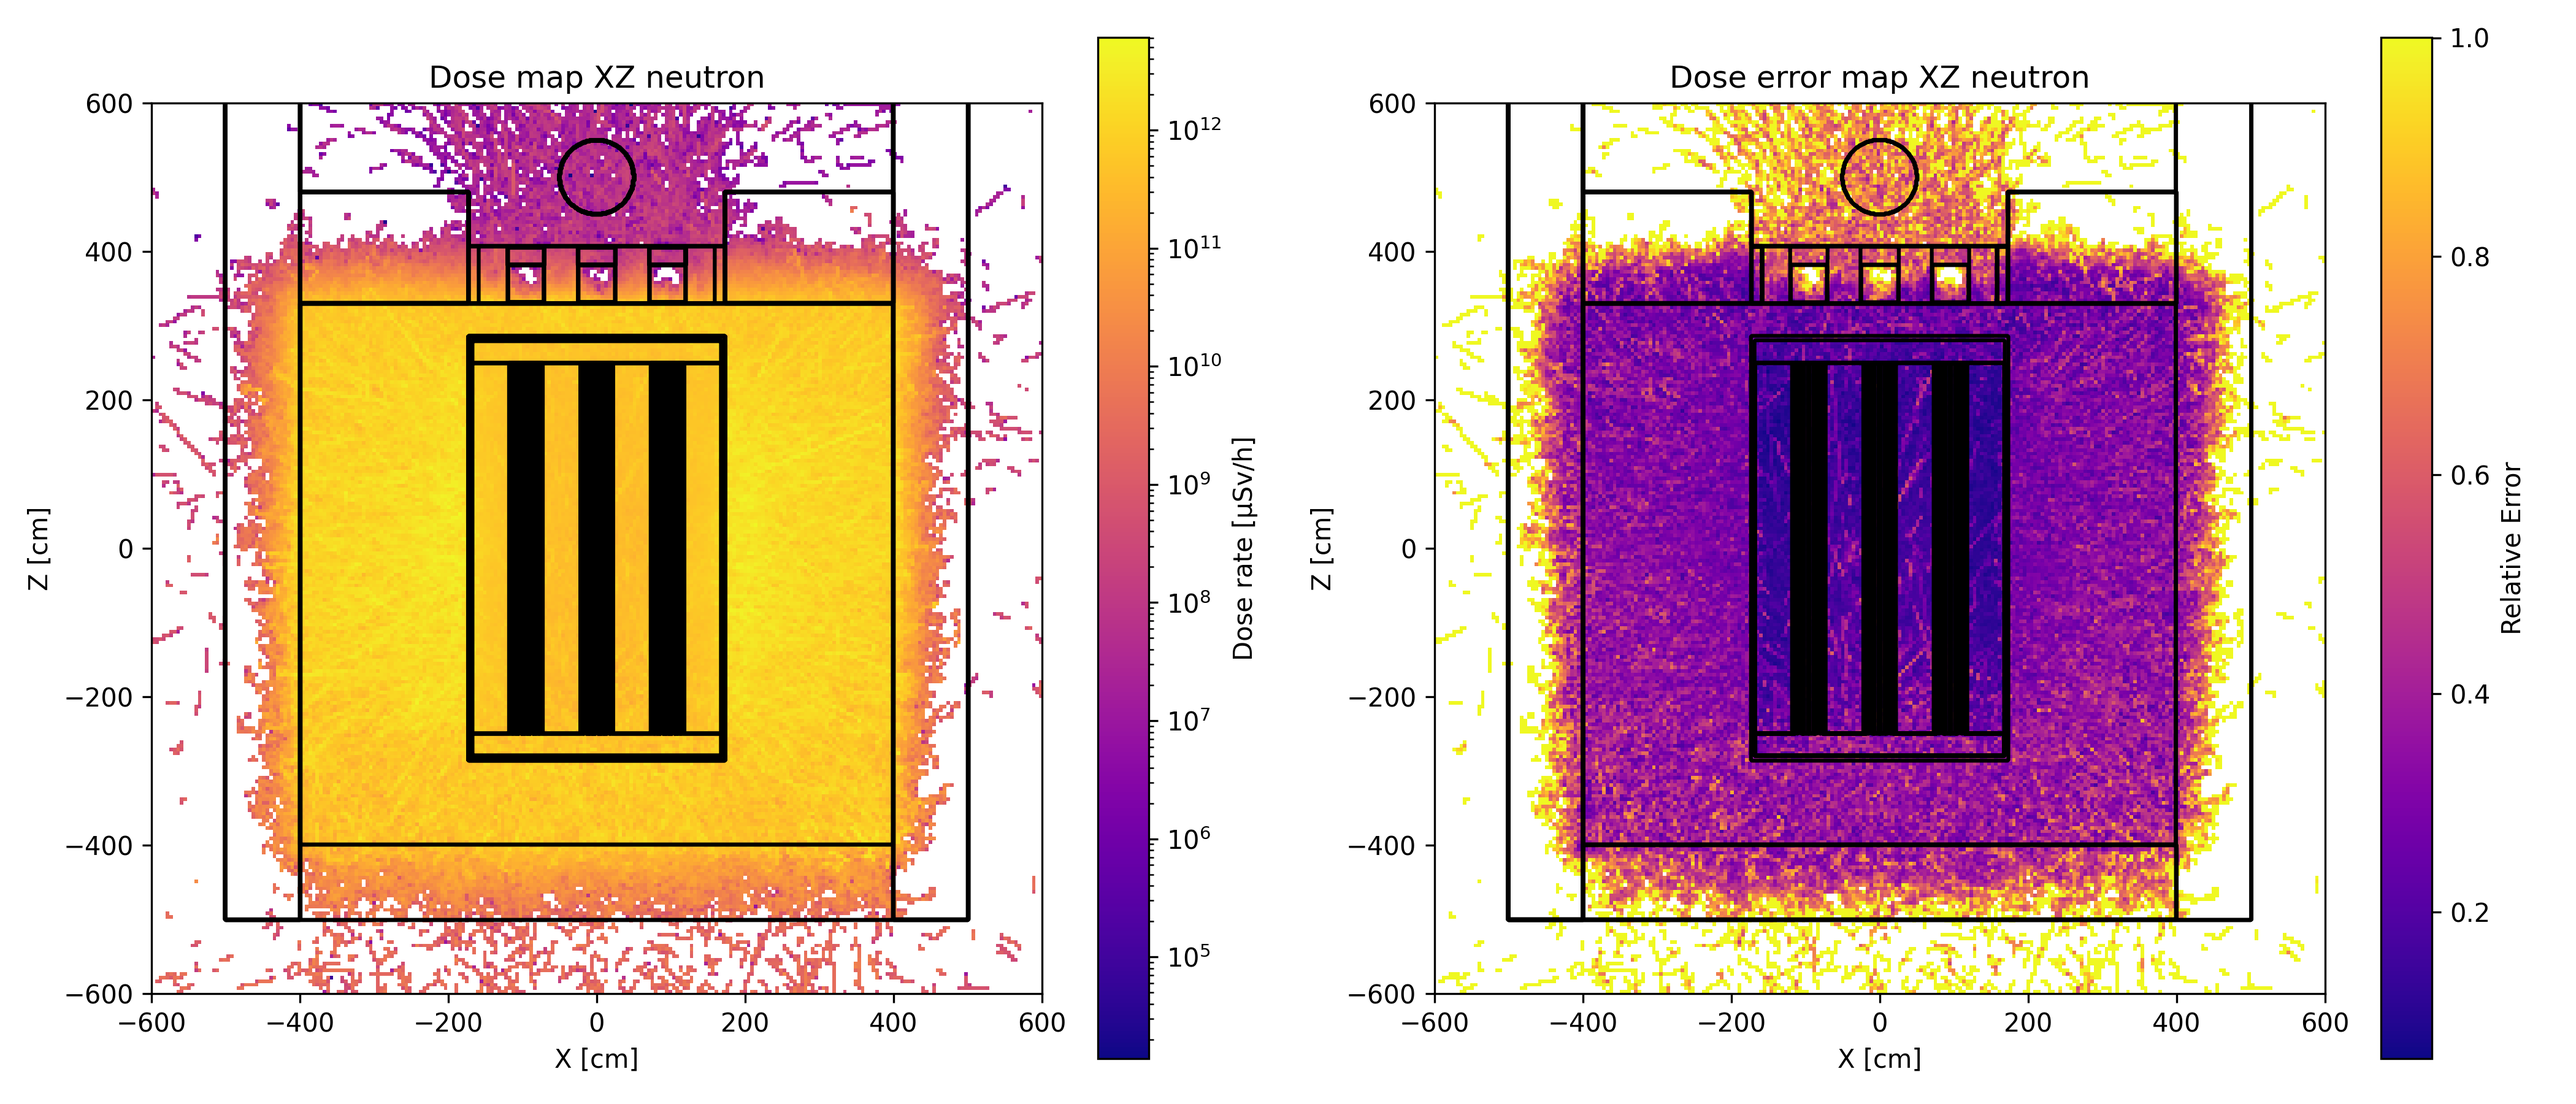
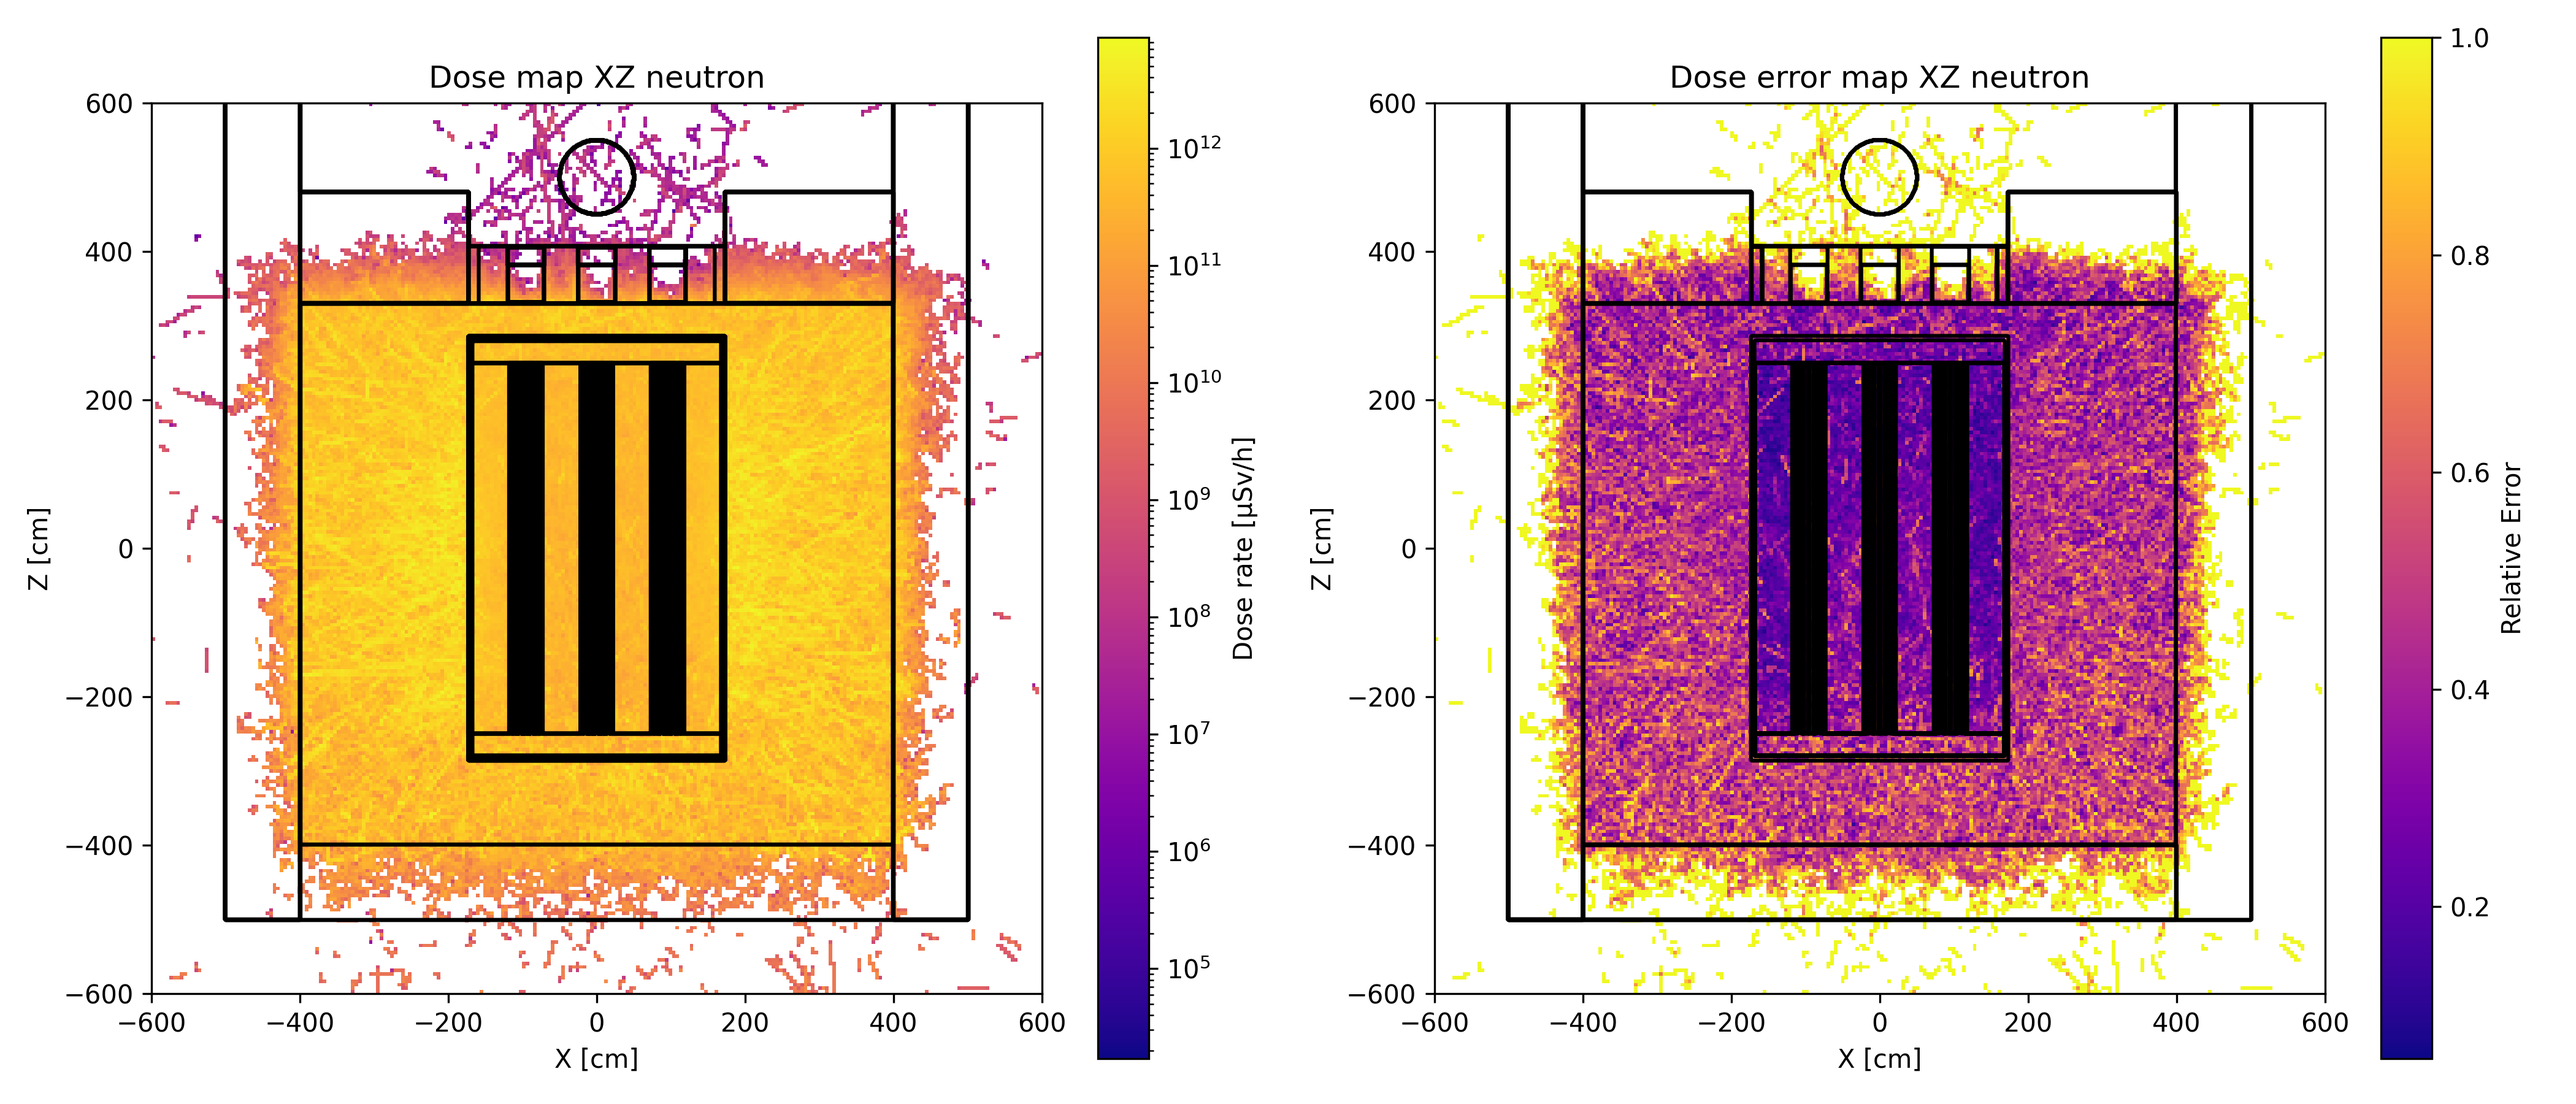
feat:add_itter_var

diff --git a/src/studies/reactor_study/class_model/secondary_source/top_shielding/02_65_25cm/03_itteration_numbe_analysis/itter_var.py b/src/studies/reactor_study/class_model/secondary_source/top_shielding/02_65_25cm/03_itteration_numbe_analysis/itter_var.py
@@ -1,0 +1,142 @@
+import openmc
+import os 
+import json
+import matplotlib.pyplot as plt
+from matplotlib.colors import LogNorm
+from pathlib import Path
+import sys 
+from PIL import Image
+import numpy as np
+
+
+
+CWD = Path(__file__).parent.resolve() 
+project_root = Path(__file__).resolve().parents[8]  
+sys.path.append(str(project_root))
+
+from parameters.parameters_paths import PATH_TO_CROSS_SECTIONS, IMAGE_PATH
+from parameters.parameters_materials import *
+from src.utils.pre_processing.pre_processing import *
+from src.utils.post_preocessing.post_processing import *
+from src.models.model_complete_reactor_class import *
+from src.utils.weight_window.weight_window import *
+
+os.environ["OPENMC_CROSS_SECTIONS"] = PATH_TO_CROSS_SECTIONS
+
+material_dict["FUEL_UO2_MATERIAL"].remove_element("U")
+
+my_reactor = Reactor_model(materials=material_dict, 
+                           total_height_active_part=500.0, 
+                           light_water_pool=False, 
+                           slab_thickness=100,
+                           concrete_wall_thickness=100,
+                           calculation_sphere_coordinates=(0, 0, 500), 
+                           calculation_sphere_radius=50.0,
+                           thickness_lead_top_shielding=20.0, 
+                           thickness_b4c_top_shielding=65.0)
+
+model = my_reactor.model
+if __name__ == "__main__":
+    model.export_to_xml()
+    plot_geometry(materials = openmc.Materials(list(my_reactor.material.values())), 
+                plane="xy", origin=(0,0,0), saving_figure=False, dpi=500, height=1700, width=1700,
+                pixels=(700, 700))
+
+    plot_geometry(materials = openmc.Materials(list(my_reactor.material.values())), 
+                plane="xz", origin=(0,0,0), saving_figure=False, dpi=500, height=1700, width=1700,
+                pixels=(700, 700))
+
+    plot_geometry(materials = openmc.Materials(list(my_reactor.material.values())), 
+                plane="xz", origin=(0,0,0), saving_figure=False, dpi=500, height=1700, width=1700,
+                pixels=(700, 700), color_by="cell")
+
+
+    results_path = "simulation_results.json"
+    with open(results_path, "r") as f:
+        results = json.load(f)
+    neutron_emission_rate = results["neutrons_emitted_per_second"]["value"]
+
+    tallys = openmc.Tallies()
+
+    itterations_number = []
+    fom_neutron_list = []
+    fom_photon_list = []
+
+
+    for itteration in range(1, 8):
+
+        # run the simulation
+
+        settings = openmc.Settings()
+        batches_number= 50
+        settings.batches = batches_number
+        settings.particles = 50000
+        settings.source = openmc.FileSource('surface_source.h5')
+        settings.photon_transport = True
+        settings.run_mode = "fixed source"
+        settings.source.particles = ["neutron", "photon"]
+
+        ww = openmc.hdf5_to_wws(f"weight_windows{itteration}.h5")
+
+        settings.weight_windows = apply_spherical_correction_to_weight_windows(ww, particule_type='photon', sphere_center=(0.0, 0.0, 500.0), sphere_radius=50.0)
+        size_ww = get_ww_size(ww)
+
+        model.settings = settings
+        model.export_to_xml()
+
+        tallys = openmc.Tallies()
+
+        tally_sphere_dose_photon = create_dose_rate_tally(
+            name="flux_tally_sphere_dose_photon",
+            particle_type="photon",
+            cell=my_reactor.calc_sphere_cell
+        )
+        tallys.append(tally_sphere_dose_photon)
+
+        tally_sphere_dose_neutron = create_dose_rate_tally(
+            name="flux_tally_sphere_dose_neutron",
+            particle_type="neutron",
+            cell=my_reactor.calc_sphere_cell
+        )
+        tallys.append(tally_sphere_dose_neutron)
+
+        tallys.export_to_xml()
+
+        remove_previous_results(batches_number=batches_number)
+
+        openmc.run()
+
+        statepoint = openmc.StatePoint(f"statepoint.{batches_number}.h5")
+
+        dose_rate_photon, dose_rate_error_photon, fom_photon = compute_dose_rate_tally(
+            statepoint=statepoint,
+            tally_name="flux_tally_sphere_dose_photon",
+            particule_per_second=neutron_emission_rate,
+            volume=Volume_cell(cell=my_reactor.calc_sphere_cell).get_volume(),
+            unit="mSv/h"
+        )
+
+        dose_rate_neutron, dose_rate_error_neutron, fom_neutron = compute_dose_rate_tally(
+            statepoint=statepoint,
+            tally_name="flux_tally_sphere_dose_neutron",
+            particule_per_second=neutron_emission_rate,
+            volume=Volume_cell(cell=my_reactor.calc_sphere_cell).get_volume(),
+            unit="mSv/h"
+        )
+        itterations_number.append(itteration)
+        fom_neutron_list.append(fom_neutron)
+        fom_photon_list.append(fom_photon)
+
+
+
+    plt.figure(figsize=(8,6))
+    plt.plot(itterations_number, fom_neutron_list, marker='o', label='Neutrons FOM')
+    plt.plot(itterations_number, fom_photon_list, marker='o', label='Photons FOM')
+    plt.yscale('log')
+    plt.xlabel('Number of Iterations')
+    plt.ylabel('Figure of Merit (FOM)')
+    plt.title('FOM vs Number of Iterations')
+    plt.grid(True, which="both", ls="--")
+    plt.legend()
+    plt.savefig("fom_vs_iterations.png", dpi=300)
+    plt.show()

diff --git a/src/studies/reactor_study/class_model/secondary_source/top_shielding/02_65_25cm/01_calcul/post.py b/src/studies/reactor_study/class_model/secondary_source/top_shielding/02_65_25cm/01_calcul/post.py
@@ -20,7 +20,7 @@ os.environ["OPENMC_CROSS_SECTIONS"] = PATH_TO_CROSS_SECTIONS
 
 material_dict["FUEL_UO2_MATERIAL"].remove_element("U")
 
-statepoint = openmc.StatePoint(f"statepoint.0030.h5")
+statepoint = openmc.StatePoint(f"statepoint.0010.h5")
 
 results_path = "simulation_results.json"
 with open(results_path, "r") as f:
@@ -77,23 +77,23 @@ mesh_tally_neutrons_xy.plot_dose_map(model=model, saving_figure=True, plot_error
 mesh_tally_photons_xz = mesh_tally_data(statepoint, "flux_mesh_photons_xz", "XZ", "photon")
 mesh_tally_photons_xz.plot_dose_map(model=model, saving_figure=True, plot_error=True, color_by="cell", 
                                  particles_per_second=neutron_emission_rate, radiological_area=False)
-# mesh_tally_photons_xz.plot_dose(axis_one_index=250, 
-#                              particles_per_second=neutron_emission_rate, 
-#                              x_lim=(0, 600),
-#                              y_lim=(1e3, 1e14),
-#                              save_fig=False,
-#                              radiological_area=True,
-#                              geometrical_limit=[(331, 'Neutrophage'), (381, "Plomb"), (406, "Fin des bouchons")],
-#                              fig_name="dose_plot_photons.png")
+mesh_tally_photons_xz.plot_dose(axis_one_index=150, 
+                             particles_per_second=neutron_emission_rate, 
+                             x_lim=(0, 600),
+                             y_lim=(1e3, 1e14),
+                             save_fig=False,
+                             radiological_area=True,
+                             geometrical_limit=[(331, 'Neutrophage'), (381, "Plomb"), (406, "Fin des bouchons")],
+                             fig_name="dose_plot_photons.png")
 
 mesh_tally_neutrons_xz = mesh_tally_data(statepoint, "flux_mesh_neutrons_xz", "XZ", "neutron")
 mesh_tally_neutrons_xz.plot_dose_map(model=model, saving_figure=True, plot_error=True, color_by="cell",
                                  particles_per_second=neutron_emission_rate, radiological_area=False)
-# mesh_tally_neutrons_xz.plot_dose(axis_one_index=250, 
-#                              particles_per_second=neutron_emission_rate, 
-#                              x_lim=(0, 600),
-#                              y_lim=(1e3, 1e14),
-#                              save_fig=False,
-#                              radiological_area=True,
-#                              geometrical_limit=[(331, 'Neutrophage'), (381, "Plomb"), (406, "Fin des bouchons")],
-#                              fig_name="dose_plot_neutrons.png")
+mesh_tally_neutrons_xz.plot_dose(axis_one_index=150, 
+                             particles_per_second=neutron_emission_rate, 
+                             x_lim=(0, 600),
+                             y_lim=(1e3, 1e14),
+                             save_fig=False,
+                             radiological_area=True,
+                             geometrical_limit=[(331, 'Neutrophage'), (381, "Plomb"), (406, "Fin des bouchons")],
+                             fig_name="dose_plot_neutrons.png")

diff --git a/src/studies/reactor_study/class_model/secondary_source/top_shielding/02_65_25cm/01_calcul/pilot_source.py b/src/studies/reactor_study/class_model/secondary_source/top_shielding/02_65_25cm/01_calcul/pilot_source.py
@@ -29,7 +29,9 @@ my_reactor = Reactor_model(materials=material_dict,
                            slab_thickness=100,
                            concrete_wall_thickness=100,
                            calculation_sphere_coordinates=(0, 0, 500), 
-                           calculation_sphere_radius=50.0)
+                           calculation_sphere_radius=50.0,
+                           thickness_lead_top_shielding=20.0, 
+                           thickness_b4c_top_shielding=65.0)
 
 model = my_reactor.model
 if __name__ == "__main__":
